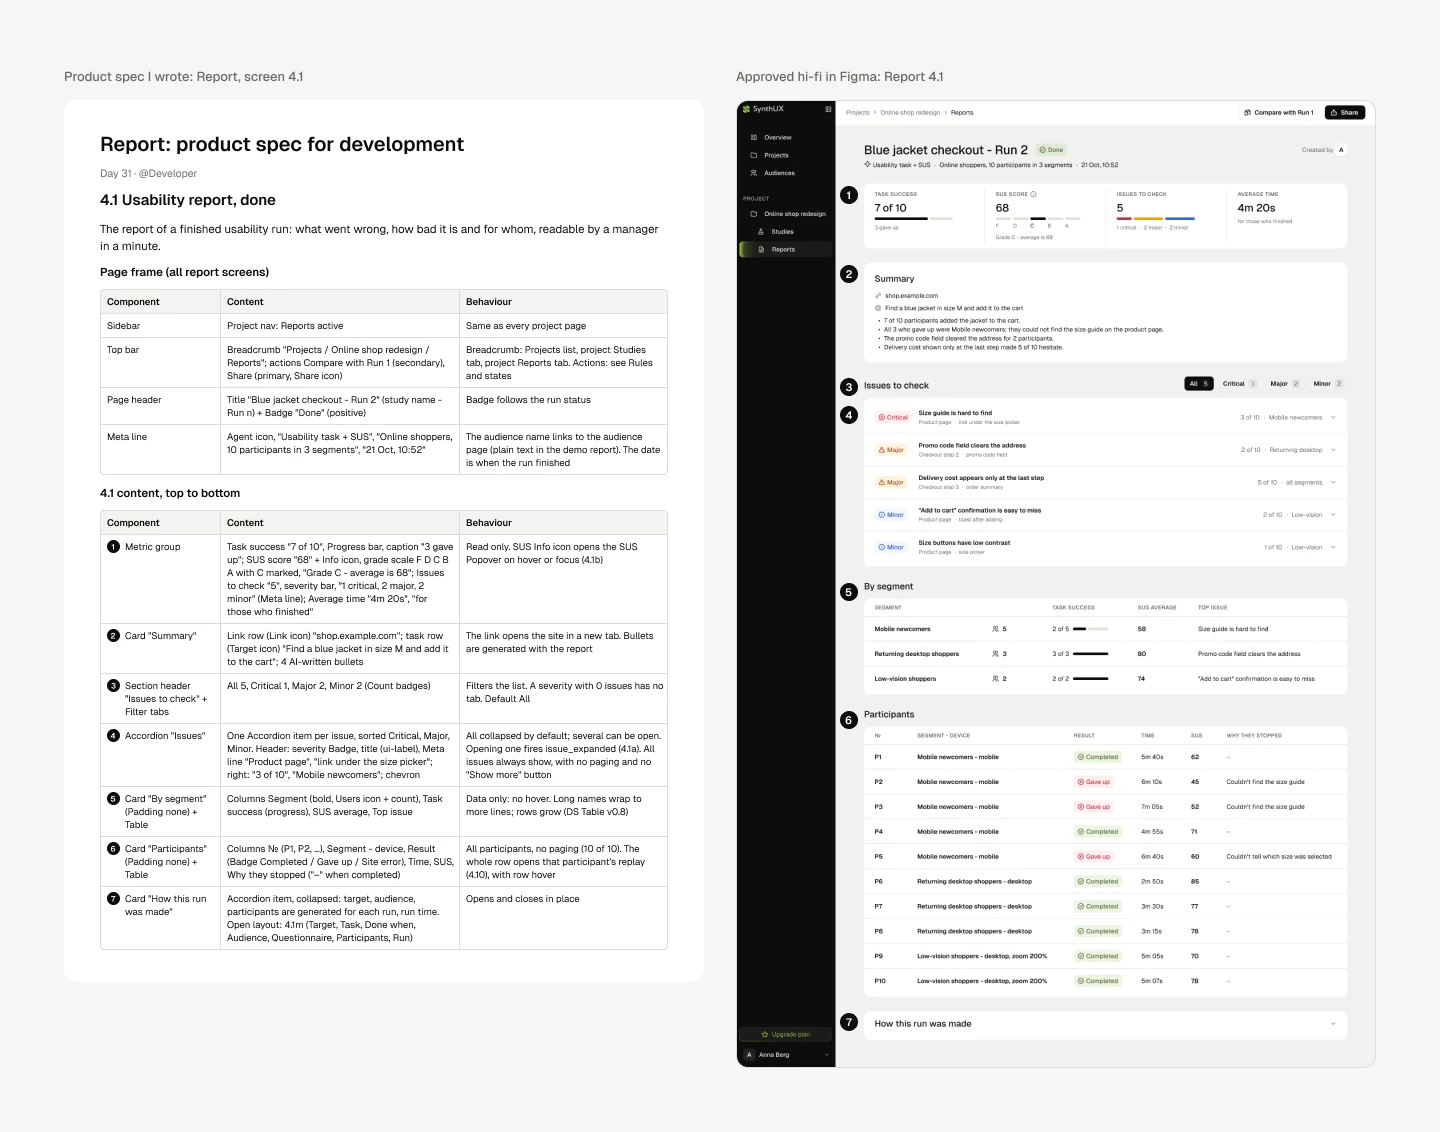
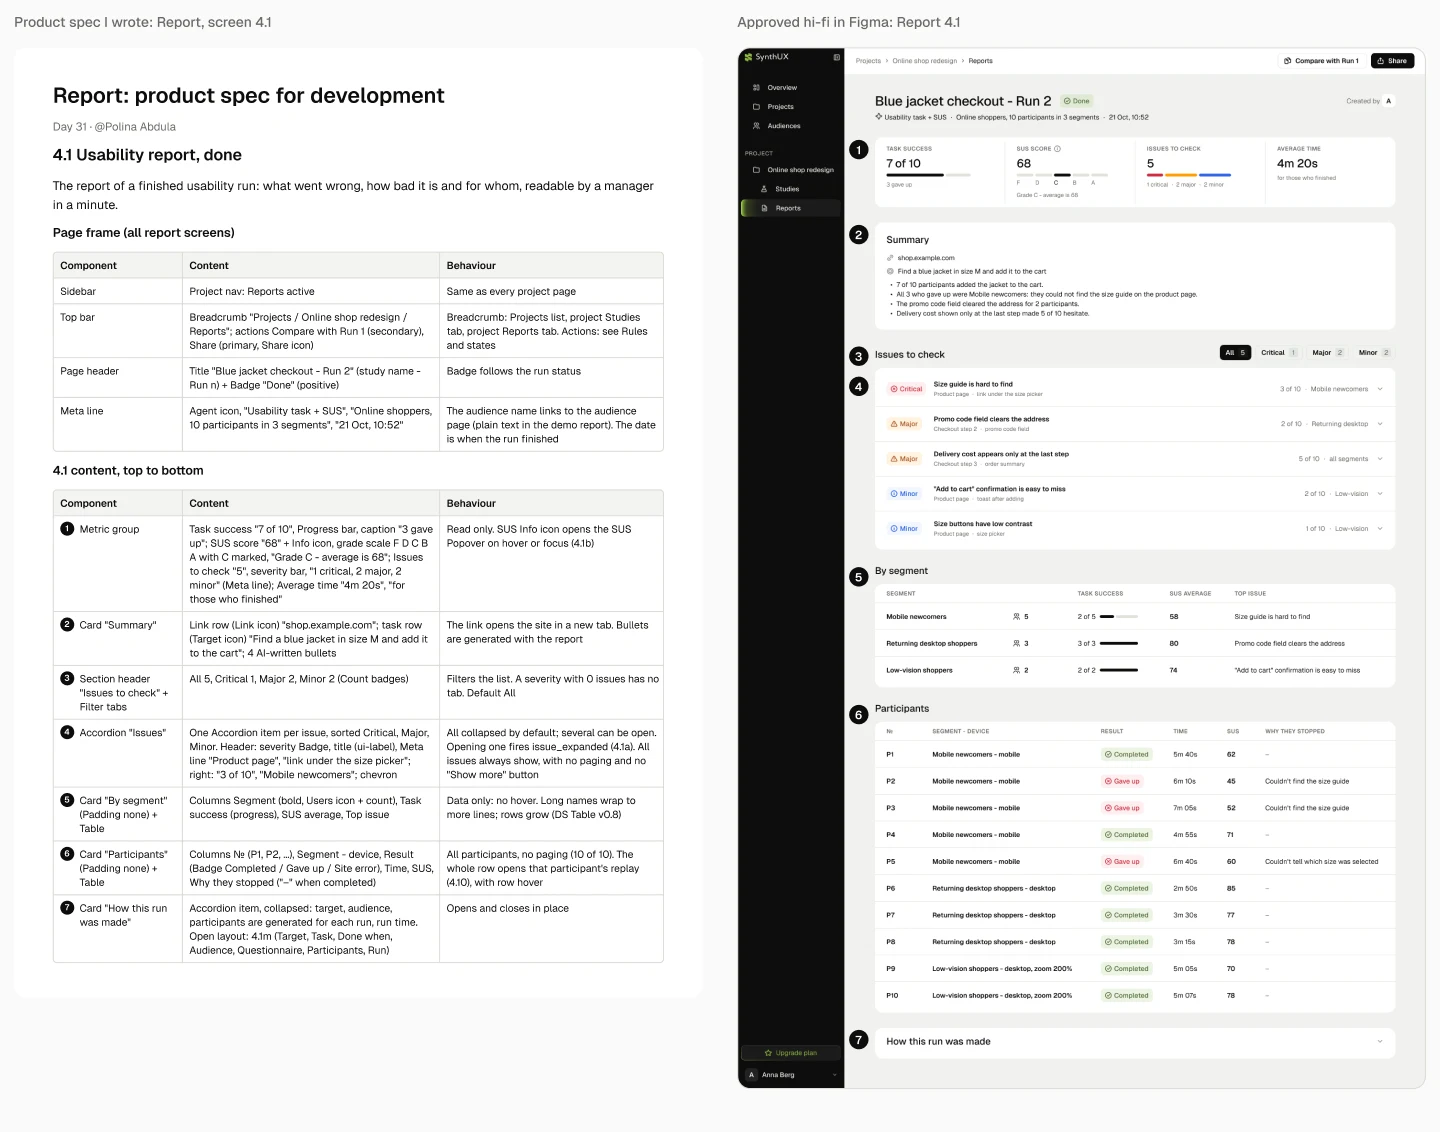
Case 1: swap in the updated trust and spec images from Figma
Claude-Session: https://claude.ai/code/session_01FZMfudEnk7paNDx6kayYNK

diff --git a/app/src/pages/synthux/SynthuxEndToEndPage.tsx b/app/src/pages/synthux/SynthuxEndToEndPage.tsx
@@ -166,7 +166,7 @@ export const SynthuxEndToEndPage = () => (
         src={trustImg}
         alt="Three approved screens: the agent icon tooltip, the compare banner about noise between runs, and the How this run was made section"
         width={1440}
-        height={898}
+        height={756}
         caption="Agent icon tooltip, compare banner, “How this run was made”."
       />
     </CaseSection>
